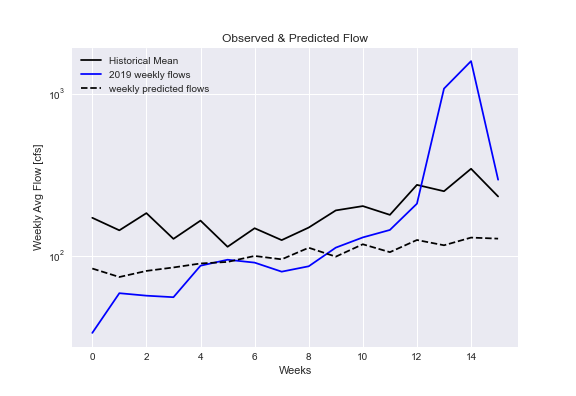
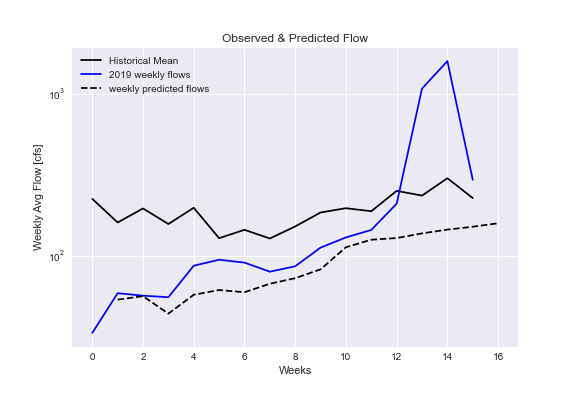
Updated final script

diff --git a/Submissions/Team Forecast/SARS.py b/Submissions/Team Forecast/SARS.py
@@ -15,8 +15,8 @@ from sklearn.linear_model import LinearRegression
 
 # %%
 site = '09506000'
-start = "2000-10-08"
-end = "2020-10-24"
+start = "1989-01-01"
+end = "2020-11-07"
 
 url = "https://waterdata.usgs.gov/nwis/dv?cb_00060=on&format=rdb&site_no=" \
       + site + "&referred_module=sw&period=&begin_date=" + start + \
@@ -43,26 +43,25 @@ Comb_data = flow_weekly
 for i in range(1, 9):
     flow_weekly['tm' '%s' % (i)] = flow_weekly['flow'].shift(i)
 
-lag_cols = ['tm1', 'tm2', 'tm3', 'tm4', 'tm5', 'tm6', 'tm7', 'tm8']
+lag_cols = ['flow', 'tm1', 'tm2', 'tm3', 'tm4', 'tm5', 'tm6', 'tm7', 'tm8']
 # Step 2: Selecting data to use for prediction
-# LC - It looks like you are grabbing out all the rows of data so you could
-#  skip the part on line 59?
-mydata = Comb_data[(Comb_data['year'] >= 2019) &
-                   (Comb_data['month'] <= 10) &
-                   (Comb_data['month'] >= 8)][['flow', 'tm1', 'tm2',
-                                               'tm3', 'tm4', 'tm5', 'tm6',
-                                               'tm7', 'tm8']]
+
+mydata = Comb_data[(Comb_data['year'] >= 2020) &
+                   (Comb_data['month'] <= 11) &
+                   (Comb_data['month'] >= 8)][lag_cols]
 
 # %%
 # Using AR_model function to predict streamflows for 16 weeks
 # Creating empty dataframe for storing predicted flows
 predicted_flows = pd.DataFrame(columns=["Week", "Flow"])
+current_week = 11
 
 # For loop for making predictions for 16 weeks
-for i in range(16):
-    x1 = mydata[lag_cols].values
+for i in range(current_week, 16):
+
+    x1 = mydata[lag_cols[1:10]].values
     y1 = mydata[['flow']].values
-    last_week_flow = mydata.tail(1)[lag_cols]
+    last_week_flow = mydata.tail(1)[lag_cols[1:10]]
     nextweek_pred = mf.AR_Model(x1, y1, last_week_flow).round(2)
 
     mydata = mydata.append({'flow': nextweek_pred,
@@ -77,10 +76,20 @@ for i in range(16):
                             }, ignore_index=True)
 
     predicted_flows = predicted_flows.append(
-        {'Week': [i+1], 'Flow': nextweek_pred}, ignore_index=True)
+        {'Week': [i+1], 'Flow': nextweek_pred[0][0]}, ignore_index=True)
 
 print(predicted_flows)
 
+# Forecast entries for previous weeks (Week 1 to 10)
+previous_weeks_entries = pd.Series(flow_weekly.flow.tail(current_week).values)
+
+# Total 16 weeks entries to be submitted for forecast competition
+Forecast_entries = pd.DataFrame(columns=["Week", "Flow"])
+aggregate = previous_weeks_entries.append(predicted_flows.Flow)
+Forecast_entries['Flow'] = aggregate.T
+Forecast_entries['Week'] = range(1, 17)
+Forecast_entries = Forecast_entries.set_index('Week')
+print(Forecast_entries)
 # %%
 # Plotting section:
 # Previous steps: creating some additional dataset to plot.
@@ -93,10 +102,9 @@ week_hist = plotf.weekly_mean(hist_flow, 8, 22, 16)
 week_2019 = plotf.weekly_mean(data2, 8, 22, 16, 2019)
 
 # From the forecast dataframe
-week_forecast = predicted_flows['Flow'].T
+week_forecast = Forecast_entries['Flow'].T
 
 # Finally, plotting
-
 plotf.plot_3series(week_hist, week_2019, week_forecast, 2019)
 
 # %%
